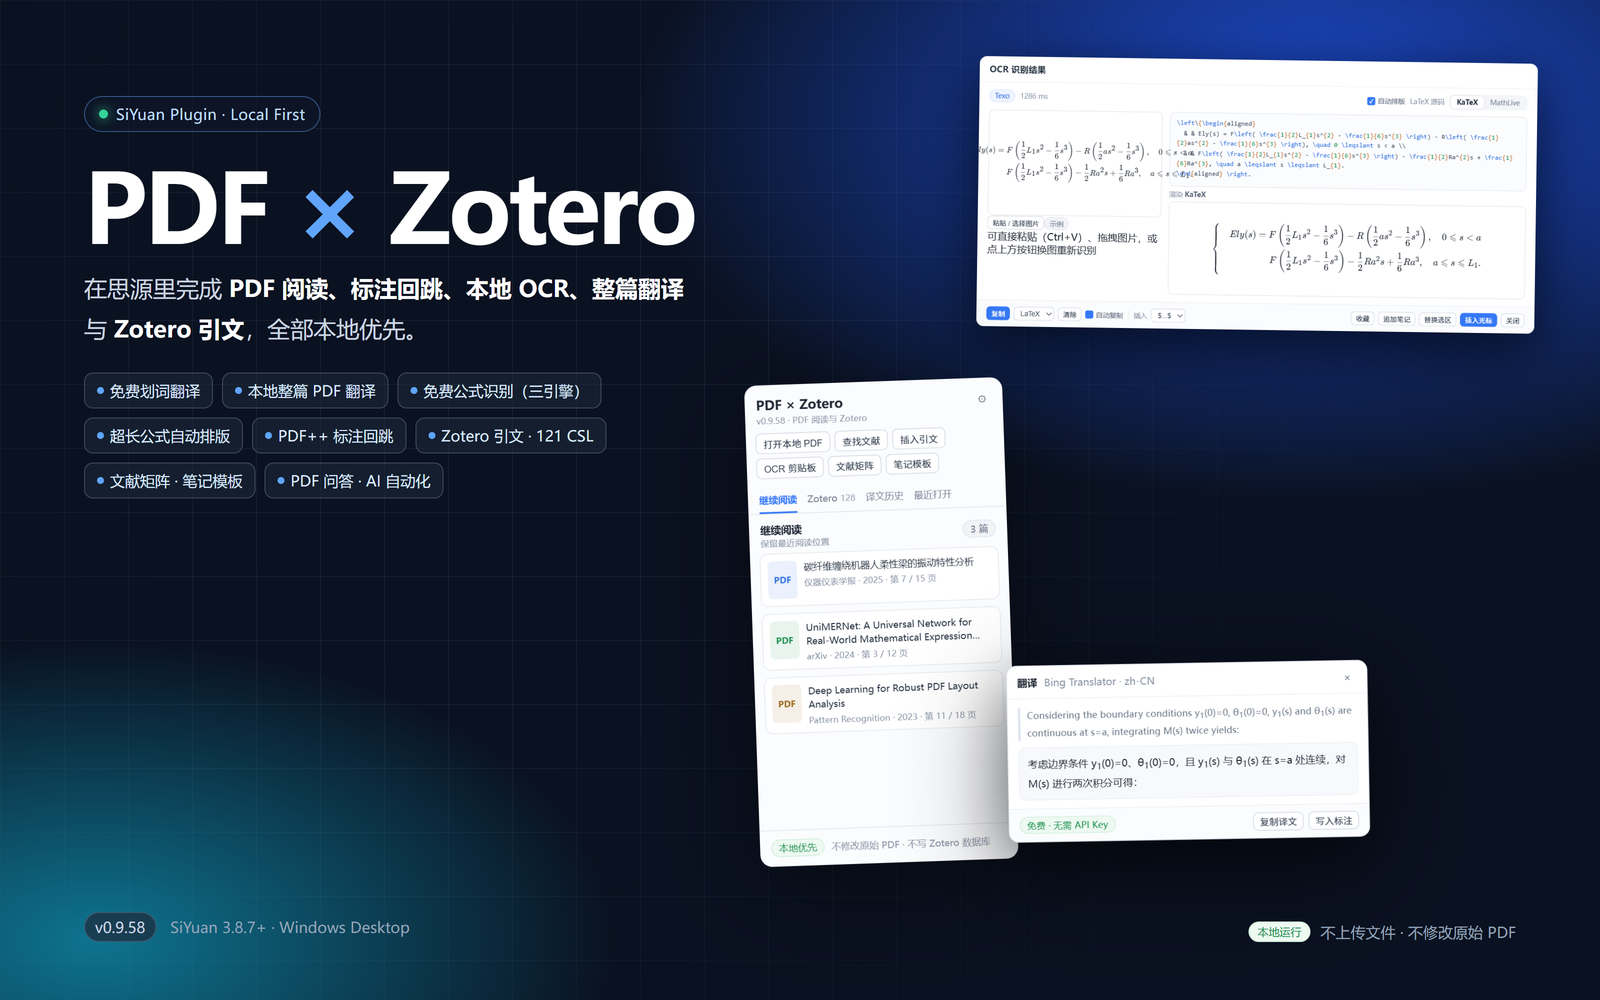
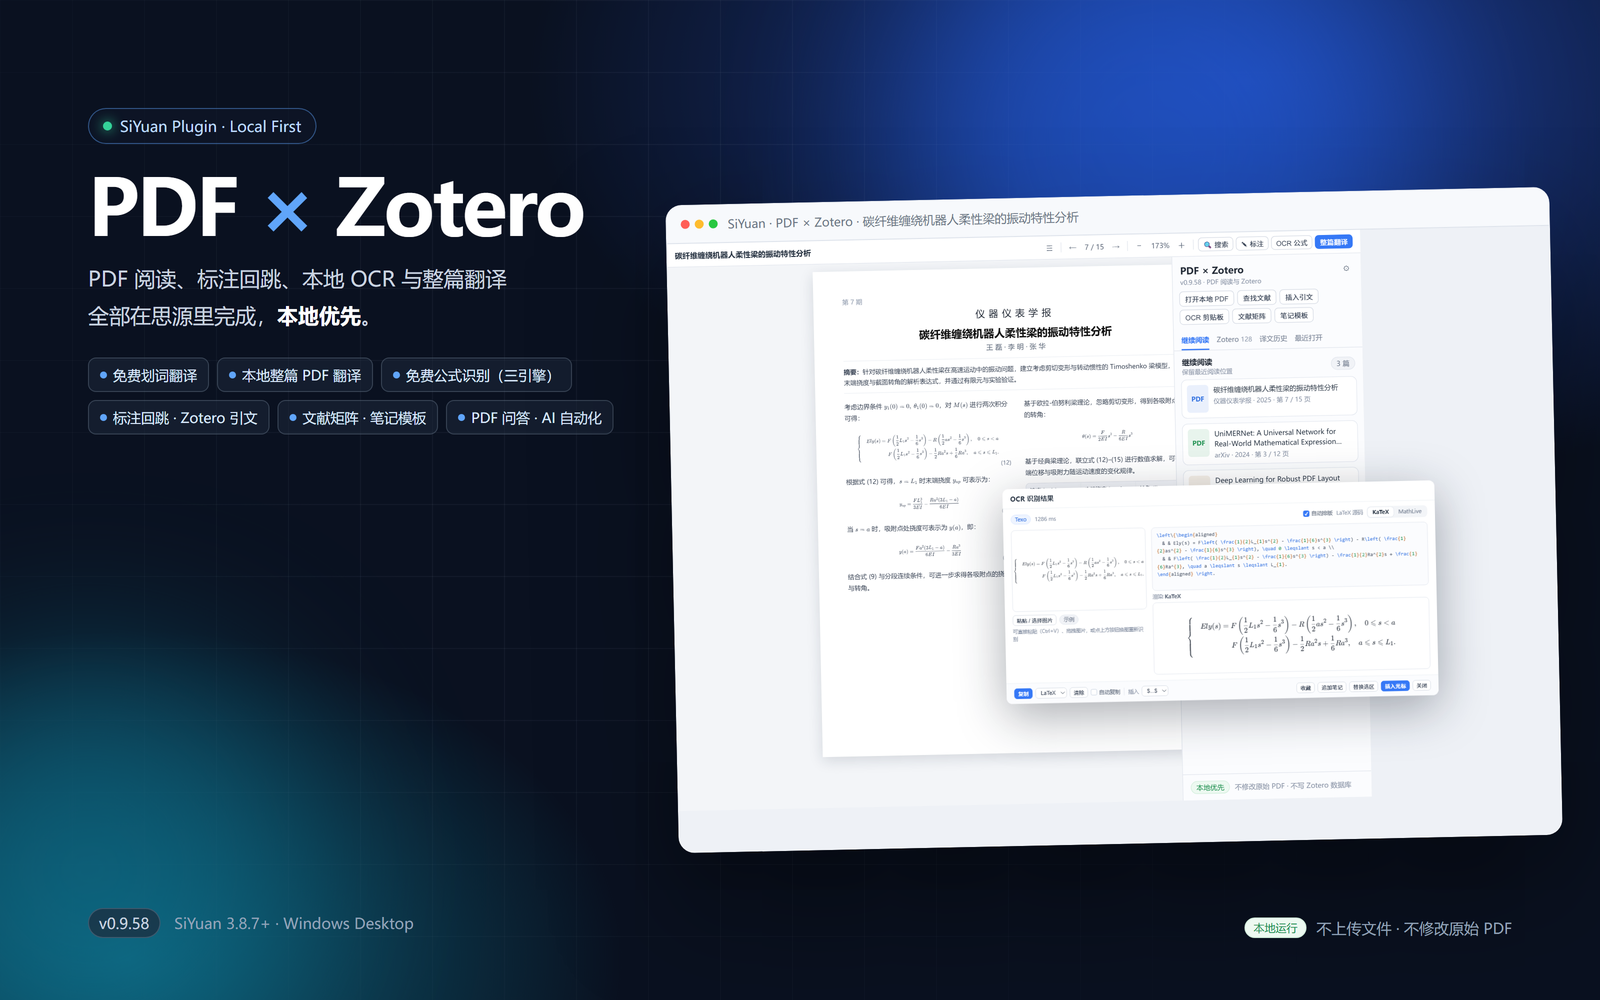
Docs: refresh README with feature screenshots and back-jump demos

diff --git a/README.md b/README.md
@@ -28,10 +28,6 @@
 
 ## 界面预览
 
-> 以下为按真实插件界面制作的**高保真示意图**（布局、按钮和交互与 0.9.58 一致，示例论文与路径为虚构数据）。
-
-![封面](docs/screenshots/cover.png)
-
 <details>
 <summary><b>Dock 面板与阅读入口</b></summary>
 
@@ -41,7 +37,7 @@
 </details>
 
 <details>
-<summary><b>笔记中的图片 / 高亮文本回跳 PDF</b>（含动图）</summary>
+<summary><b>笔记中的图片 / 高亮文本回跳 PDF</b></summary>
 
 ![图片回跳动图](docs/screenshots/backjump-image-demo.gif)
 
@@ -51,7 +47,7 @@
 </details>
 
 <details>
-<summary><b>免费划词翻译</b>（含动图）</summary>
+<summary><b>免费划词翻译</b></summary>
 
 ![划词翻译动图](docs/screenshots/translation-selection-demo.gif)
 
@@ -69,7 +65,7 @@
 </details>
 
 <details>
-<summary><b>免费公式识别</b>（含动图）</summary>
+<summary><b>免费公式识别</b></summary>
 
 ![OCR 插入动图](docs/screenshots/ocr-insert-demo.gif)
 
